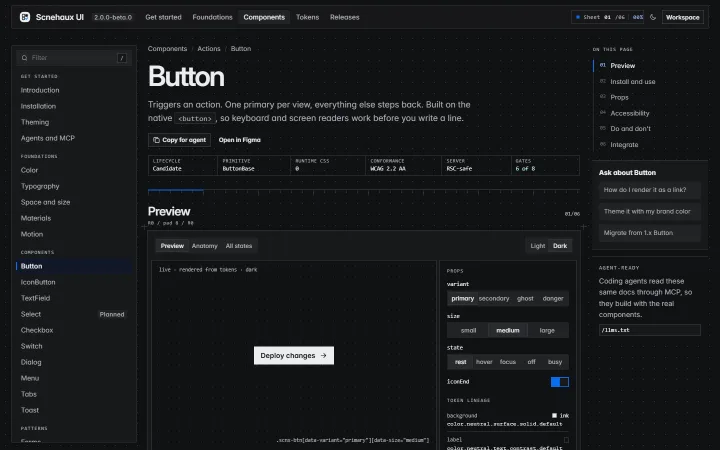
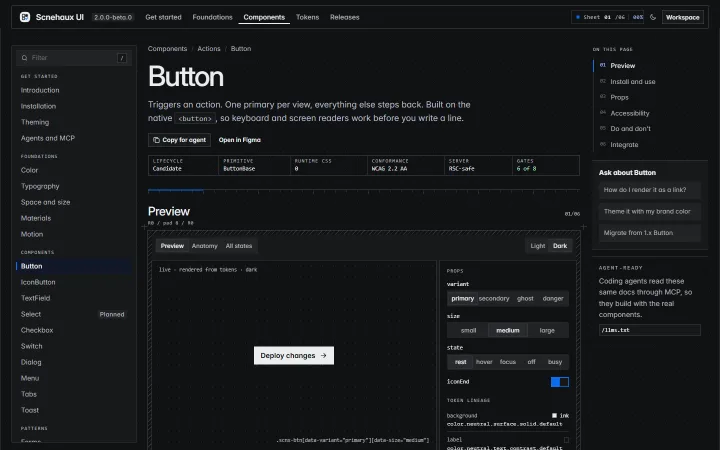
Square: draw the boards as an engineering sheet
Push the Square expression further toward an industrial, restrained look,
still only in square.css:

- Hairlines, not shadows: material effects keep their 1px ring and drop
  the blur; menus, dialogs and sheets keep one long, low shadow.
- A frame: each sheet is bounded by hairlines that meet its ruler, and
  the reticle steps back.
- Hatched mounts: a panel's 8px pad is hatched like a section cut; the
  CTA is a plain plate in a passe-partout ring.
- Opaque nav strip with an ink underline for the current page.
- Lighter type: headings at 500 with open tracking, big figures at 300,
  labels tracked wider. Page-local rules are outranked with `html` since
  the pages' own <style> loads after square.css.

Still frames and thumbnails regenerated.

diff --git a/concepts/docs-instrument-square/square.css b/concepts/docs-instrument-square/square.css
@@ -1,10 +1,10 @@
 /* Scnehaux UI · Instrument · Square
-   The Instrument expression with square geometry and no read head. Loaded after
-   docs-instrument/instrument.css; it changes nothing else.
+   The Instrument expression drawn as an engineering sheet: square geometry, hairlines
+   instead of soft shadows, a frame that runs the height of the set, hatched mounts and
+   lighter type. Loaded after docs-instrument/instrument.css; it overrides, never forks.
 
    Every radius token resolves to 0, so the concentric ladder collapses to one value:
    the components and materials still bind radius.mark … radius.pill, they draw square.
-   The literal radii in the pages (50%, 3px, a slider thumb) are flattened too.
    This departs from the brand book's ladder; it is guidance only (see README.md). */
 
 :root {
@@ -24,3 +24,89 @@ input[type="range"]::-moz-range-thumb { border-radius: 0 !important; }
 /* No read head. "Here" is still the sheet at the reading height (instrument.js):
    the rail mark, the sheet number and the nav readout turn blue. */
 .ix-readhead { display: none; }
+
+/* ------------------------------------------------------------------
+   Hairlines, not shadows. Materials keep their fill and ring; the blur goes.
+   Only what floats over content (menus, dialogs, sheets) keeps one long, low shadow.
+   Re-declared per theme root, like instrument.css, so islands resolve their own lines.
+   ------------------------------------------------------------------ */
+:root, [data-theme] {
+  --sq-hair: var(--ds-color-neutral-border-subtle-default);
+  --sq-hair-strong: var(--ds-color-neutral-border-default-default);
+  --sq-hatch: repeating-linear-gradient(135deg, var(--sq-hair) 0 1px, transparent 1px 6px);
+  --sq-lift: 0 28px 48px -28px oklch(0 0 0 / 0.45);
+
+  --ds-effect-material-flat: 0 0 0 1px var(--sq-hair);
+  --ds-effect-material-raised: 0 0 0 1px var(--sq-hair);
+  --ds-effect-material-panel: 0 0 0 1px var(--sq-hair-strong);
+  --ds-effect-material-tooltip: 0 0 0 1px var(--sq-hair-strong);
+  --ds-effect-material-menu: 0 0 0 1px var(--sq-hair-strong), var(--sq-lift);
+  --ds-effect-material-modal: 0 0 0 1px var(--sq-hair-strong), var(--sq-lift);
+  --ds-effect-material-sheet: 0 0 0 1px var(--sq-hair-strong), var(--sq-lift);
+
+  /* the reticle steps back: the frame and the rulers carry the structure now */
+  --ix-dot: color-mix(in oklch, var(--ds-color-neutral-border-subtle-default) 70%, var(--ix-ground));
+}
+[data-theme="dark"] {
+  --ix-dot: color-mix(in oklch, var(--ds-color-neutral-surface-strong-default) 60%, var(--ix-ground));
+}
+
+/* ------------------------------------------------------------------
+   The frame: each sheet is bounded left and right by a hairline that meets the
+   ruler at its ends, so the set reads as one continuous drawing border.
+   ------------------------------------------------------------------ */
+@media (min-width: 760px) {
+  .ix-wrap[data-sheet], .ix-wrap.ix-foot, .ix-wrap.docs {
+    box-shadow: inset 1px 0 0 var(--sq-hair), inset -1px 0 0 var(--sq-hair);
+  }
+  .ix-ruler::before {
+    background:
+      linear-gradient(var(--ix-line-strong), var(--ix-line-strong)) left top / 100% 1px no-repeat,
+      repeating-linear-gradient(to right, var(--ix-line) 0 1px, transparent 1px var(--ix-pitch)) left top / 100% 5px no-repeat,
+      repeating-linear-gradient(to right, var(--ix-line-strong) 0 1px, transparent 1px calc(var(--ix-pitch) * 5)) left top / 100% 9px no-repeat;
+  }
+}
+
+/* ------------------------------------------------------------------
+   Mounts: a panel's 8px pad is hatched, like a section cut, and the plate sits on it.
+   The call-to-action panel has a deep pad, so it stays a plain plate.
+   ------------------------------------------------------------------ */
+.mat-panel {
+  background:
+    linear-gradient(var(--ds-color-neutral-surface-raised-default), var(--ds-color-neutral-surface-raised-default)) content-box,
+    var(--sq-hatch) border-box,
+    var(--ix-ground);
+}
+.mat-panel.cta {
+  background: var(--ds-color-neutral-surface-raised-default);
+  box-shadow: 0 0 0 1px var(--sq-hair-strong), inset 0 0 0 8px var(--ix-ground), inset 0 0 0 9px var(--sq-hair);
+}
+.mat-well { background: var(--sq-hatch), var(--ds-color-neutral-surface-sunken-default); }
+
+/* Navigation: an opaque strip on the frame, no glass. */
+.ix-nav {
+  background: var(--ix-ground);
+  -webkit-backdrop-filter: none; backdrop-filter: none;
+  box-shadow: 0 0 0 1px var(--sq-hair-strong);
+}
+.ix-nav-links a[aria-current="page"] { background: transparent; box-shadow: inset 0 -2px 0 var(--ix-text); }
+
+/* ------------------------------------------------------------------
+   Type: lighter and opener. Weight carries less, the measure and the grid carry more.
+   ------------------------------------------------------------------ */
+.ix-display { font-weight: 500; letter-spacing: -0.042em; line-height: 0.98; }
+.ix-h2 { font-weight: 500; letter-spacing: -0.035em; line-height: 1.04; }
+.ix-h3 { font-weight: 550; letter-spacing: -0.012em; }
+/* the pages' own <style> loads after this file, so their rules are outranked with html */
+html .page-head h1 { font-weight: 500; letter-spacing: -0.04em; }
+html .sec-head h2 { font-weight: 500; letter-spacing: -0.025em; }
+html .gauge strong, html .readout strong { font-weight: 300; letter-spacing: -0.035em; }
+.ix-lede { color: color-mix(in oklch, var(--ix-muted) 88%, var(--ix-text)); }
+
+.ix-eyebrow, .ix-sheet-name { letter-spacing: 0.18em; }
+.ix-sheet-no { letter-spacing: 0.12em; }
+.ix-sheet-head { margin-block-end: 64px; }
+
+/* Title blocks and the set block: label cells read like a stamped plate. */
+.ix-tb dt, .ix-tb .k, .ix-setblock .k { letter-spacing: 0.16em; }
+.ix-tb, .ix-setblock { box-shadow: inset 0 0 0 1px var(--sq-hair-strong); }

diff --git a/index.html b/index.html
@@ -113,7 +113,7 @@
     ["iam", "IAM", [["IAM-Reachability", "IAM — Reachability"]]],
     ["docs-site", "Docs — public landing, signed-in workspace, component page", [["Docs-Landing", "Public · Landing (global)"], ["Docs-Home", "Signed in · Workspace home"], ["Docs-Button", "Docs · Components / Button"]]],
     ["docs-instrument", "Docs · Instrument — the industrial expression, live (motion, scroll, lines)", [["Docs-Landing", "Instrument · Landing (global)"], ["Docs-Home", "Instrument · Workspace home"], ["Docs-Button", "Instrument · Components / Button"]], { live: true }],
-    ["docs-instrument-square", "Docs · Instrument · Square — no radius, no read head, live", [["Docs-Landing", "Square · Landing (global)"], ["Docs-Home", "Square · Workspace home"], ["Docs-Button", "Square · Components / Button"]], { live: true }],
+    ["docs-instrument-square", "Docs · Instrument · Square — engineering sheet: no radius, hairlines, hatched mounts, live", [["Docs-Landing", "Square · Landing (global)"], ["Docs-Home", "Square · Workspace home"], ["Docs-Button", "Square · Components / Button"]], { live: true }],
   ];
   const root = document.getElementById("concepts");
   for (const [folder, label, boards, opts = {}] of GROUPS) {

diff --git a/concepts/docs-instrument-square/README.md b/concepts/docs-instrument-square/README.md
@@ -1,7 +1,8 @@
 # Docs · Instrument · Square
 
 The Instrument expression (`concepts/docs-instrument/`) of the three docs boards,
-with two changes and nothing else:
+drawn as an engineering sheet. Content, motion and colour roles are Instrument's;
+the changes are geometry, line and type:
 
 1. **No radius.** Every radius token (`radius.mark` … `radius.pill`) resolves to
    0, and the literal radii in the pages (round dots, slider thumbs, the 3px
@@ -11,6 +12,15 @@ with two changes and nothing else:
 2. **No read head.** The blue hairline held at reading height (and the lit dots
    under it) is gone. "Here" still works: the sheet at the reading height turns
    its rail mark, sheet number and nav readout blue.
+3. **Hairlines, not shadows.** The material effects keep their 1px ring and drop
+   the blur; only menus, dialogs and sheets keep one long, low shadow. The nav is
+   an opaque strip (no glass) and marks the current page with an ink underline.
+4. **The frame.** Each sheet is bounded left and right by a hairline that meets
+   its ruler, so the set reads as one drawing border. The reticle steps back.
+5. **Hatched mounts.** A panel's 8px pad is hatched like a section cut and the
+   plate sits on it; the call-to-action is a plain plate in a passe-partout ring.
+6. **Lighter type.** Display and section headings at 500 with more open tracking,
+   the big figures at 300, labels tracked wider.
 
 > **Status: reference, non-normative (ADR-UIP-VIS-002).** Square geometry departs
 > from the brand book's concentric ladder (R24 panel, pad 8, R16 container). It is
@@ -24,7 +34,8 @@ with two changes and nothing else:
 
 ## Files
 
-- `square.css`: the two changes, loaded after `../docs-instrument/instrument.css`.
+- `square.css`: the changes above, loaded after `../docs-instrument/instrument.css`.
+  The `--sq-*` properties (hairlines, hatch, lift) are expression-local guidance.
   The pages share `instrument.css` and `instrument.js` with Instrument, so a
   change there lands in both expressions.
 - `<Board>.html`: the Instrument page with the square overrides, the read head

diff --git a/README.md b/README.md
@@ -122,7 +122,8 @@ a hand-authored live page (`<Board>.html`, sharing `instrument.css` and
 component classes; its folder README records the expression and its guidance
 status. `docs-instrument-square` follows the same rule and reuses Instrument's
 `instrument.css` and `instrument.js`, adding only `square.css` (radius tokens
-at 0, no read head).
+at 0, no read head, hairline materials, a sheet frame, hatched mounts and
+lighter type).
 
 ## Provenance
 
